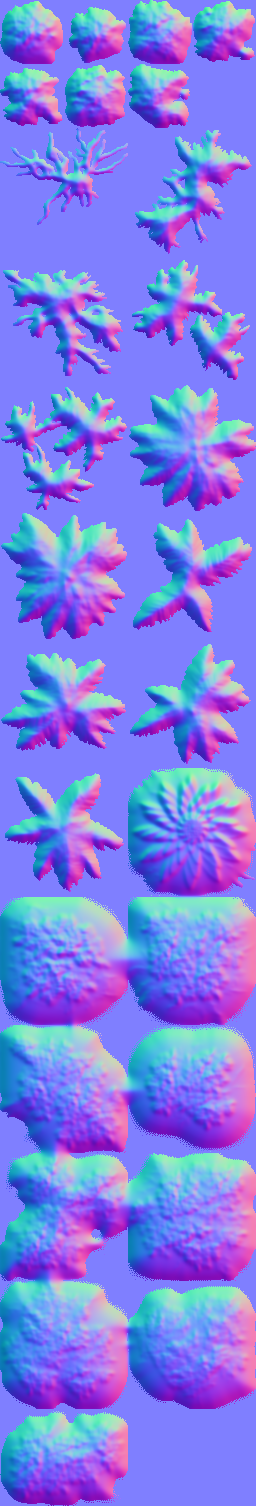
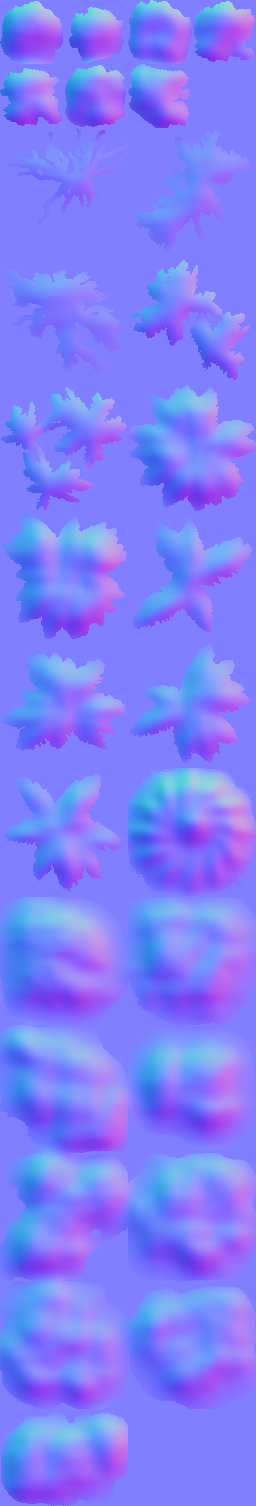
Implemented a rotating directional-light

diff --git a/src/scenes/lighting.scene.ts b/src/scenes/lighting.scene.ts
@@ -1,13 +1,18 @@
 import { glCanvas, mainCanvas, mainCanvasSize, overlayCanvas, rgb, vec2 } from "littlejsengine";
-import { Scene } from "../scene";
-import { Sprite } from "../sprite";
+import { Scene } from "../extensions/scene";
+import { Sprite } from "../extensions/sprite";
 import * as foliageSpriteData from "../foliage.json";
 import { createTileInfo } from "../create-tile-info";
+import { DirectionalLight } from "../extensions/directional-light";
+import { Light } from "../extensions/light";
 
 export class LightingScene extends Scene {
   private _lightMapCanvas!: HTMLCanvasElement;
   private _lightMapContext!: CanvasRenderingContext2D;
-  private _ambientLight = { color: rgb(201/255, 226/255, 255/255), intensity: 0.5 };
+  private _normalMapCanvas!: OffscreenCanvas;
+  private _normalMapContext!: OffscreenCanvasRenderingContext2D;
+  private _ambientLight = { color: rgb(201 / 255, 226 / 255, 255 / 255), intensity: 0.0 };
+  private _lights: Light[] = [];
 
   constructor() {
     super("lighting", [
@@ -30,13 +35,25 @@ export class LightingScene extends Scene {
     (glCanvas || mainCanvas).style.zIndex = mainCanvas.style.zIndex = "0";
     this._lightMapCanvas.style.zIndex = "1";
     overlayCanvas.style.zIndex = "2";
-    this._lightMapContext = this._lightMapCanvas.getContext("2d")!;
+    this._lightMapContext = this._lightMapCanvas.getContext("2d", { willReadFrequently: true })!;
+    this._normalMapCanvas = new OffscreenCanvas(1, 1);
+    this._normalMapContext = this._normalMapCanvas.getContext("2d", { willReadFrequently: true})!;
 
     new Sprite(
       vec2(0),
       vec2(7),
-      createTileInfo(foliageSpriteData.frames["tree6.png" as keyof typeof foliageSpriteData.frames], 2)
+      createTileInfo(foliageSpriteData.frames["tree6.png" as keyof typeof foliageSpriteData.frames], 2),
+      createTileInfo(foliageSpriteData.frames["tree6.png" as keyof typeof foliageSpriteData.frames], 3),
+      this._normalMapContext
     );
+
+    this.initializeLights();
+  }
+
+  private initializeLights(): void {
+    const angle = (90 * Math.PI) / 180;
+    const dirLight = new DirectionalLight(angle, rgb(201 / 255, 226 / 255, 255 / 255), 1, 0.5);
+    this._lights.push(dirLight);
   }
 
   /**
@@ -53,13 +70,18 @@ export class LightingScene extends Scene {
    * Called before objects are rendered, draw any background effects that appear behind objects.
    */
   override gameRender(): void {
-    // Clear the light map canvas with black
     this._lightMapCanvas.style.width = mainCanvas.style.width;
     this._lightMapCanvas.style.height = mainCanvas.style.height;
     this._lightMapCanvas.width = mainCanvas.width;
     this._lightMapCanvas.height = mainCanvas.height;
+    this._normalMapCanvas.width = mainCanvas.width;
+    this._normalMapCanvas.height = mainCanvas.height;
 
-    const ambientColor = `rgba(${this._ambientLight.color.r * 255 * this._ambientLight.intensity}, ${this._ambientLight.color.g * 255 * this._ambientLight.intensity}, ${this._ambientLight.color.b * 255 * this._ambientLight.intensity}, 1)`;
+    // Fill the light map canvas with ambient light
+    this._lightMapContext.globalCompositeOperation = "source-over";
+    const ambientColor = `rgba(${this._ambientLight.color.r * 255 * this._ambientLight.intensity}, ${
+      this._ambientLight.color.g * 255 * this._ambientLight.intensity
+    }, ${this._ambientLight.color.b * 255 * this._ambientLight.intensity}, 1)`;
     this._lightMapContext.fillStyle = ambientColor;
     this._lightMapContext.fillRect(0, 0, this._lightMapCanvas.width, this._lightMapCanvas.height);
   }
@@ -68,7 +90,52 @@ export class LightingScene extends Scene {
    * Called after objects are rendered, draw effects or hud that appear above all objects.
    */
   override gameRenderPost(): void {
-    
+    this._lightMapContext.globalCompositeOperation = "lighter";
+    const litImageData: ImageData = this._lightMapContext.getImageData(
+      0,
+      0,
+      this._lightMapCanvas.width,
+      this._lightMapCanvas.height
+    );
+    const normalImageData: ImageData = this._normalMapContext.getImageData(
+      0,
+      0,
+      this._normalMapCanvas.width,
+      this._normalMapCanvas.height
+    );
+
+    for (let y = Math.round(mainCanvas.height / 2 - 200); y < Math.round(mainCanvas.height / 2 + 200); y++) {
+      for (let x = Math.round(mainCanvas.width / 2 - 200); x < Math.round(mainCanvas.width / 2 + 200); x++) {
+        const index = (y * this._lightMapCanvas.width + x) * 4;
+        let pixel = rgb(
+          litImageData.data[index] / 255,
+          litImageData.data[index + 1] / 255,
+          litImageData.data[index + 2] / 255,
+          litImageData.data[index + 3] / 255
+        );
+        const normal = rgb(
+          (normalImageData.data[index] / 255) * 2 - 1,
+          (normalImageData.data[index + 1] / 255) * 2 - 1,
+          (normalImageData.data[index + 2] / 255) * 2 - 1,
+          (normalImageData.data[index + 3] / 255) * 2 - 1
+        );
+
+        const pos = vec2(x, y);
+
+        for (const light of this._lights) {
+          pixel = light.applyLighting(pixel, pos, normal);
+        }
+
+        pixel = pixel.clamp();
+
+        litImageData.data[index] = pixel.r * 255;
+        litImageData.data[index + 1] = pixel.g * 255;
+        litImageData.data[index + 2] = pixel.b * 255;
+        litImageData.data[index + 3] = pixel.a * 255;
+      }
+    }
+
+    this._lightMapContext.putImageData(litImageData, 0, 0);
   }
 
   /**

diff --git a/src/extensions/directional-light.ts b/src/extensions/directional-light.ts
@@ -1,0 +1,47 @@
+import { Color, rgb, Timer, vec2, Vector2, wave } from "littlejsengine";
+import { Light } from "./light";
+
+const animationTimer = new Timer(1);
+
+export class DirectionalLight extends Light {
+  /**
+   *
+   * @param angle
+   * @param color
+   * @param intensity
+   * @param height The height of the light. Used with 2D normal mapping. Ranges from 0 (parallel to the plane) to 1 (perpendicular to the plane).
+   */
+  constructor(angle?: number, color?: Color, intensity?: number, public height = 1) {
+    super(undefined, undefined, angle, color, undefined, intensity);
+  }
+
+  override update(): void {
+    if (animationTimer.elapsed()) animationTimer.set(0);
+    this.angle = wave(0.1, 2 * Math.PI, animationTimer.time);
+  }
+
+  applyLighting(pixel: Color, pos: Vector2, normal?: Color): Color {
+    if (!normal) {
+      // If no normal is provided, assume the normal is straight up
+      normal = rgb(0, 0, 1);
+    }
+    const direction = {
+      y: (1 - this.height) * Math.cos(this.angle),
+      x: (1 - this.height) * Math.sin(this.angle),
+      z: this.height,
+    };
+    // Normalize the light direction vector
+    /* const directionLength = Math.sqrt(
+      direction.x * direction.x + direction.y * direction.y + direction.z * direction.z
+    );
+    direction.x /= directionLength;
+    direction.y /= directionLength;
+    direction.z /= directionLength; */
+
+    // Calculate dot product between light direction and normal
+    const dot = Math.max(0, direction.x * normal.r + direction.y * normal.g + direction.z * normal.b);
+    const newPixel = pixel.add(this.color.scale(this.intensity * dot));
+
+    return newPixel.clamp();
+  }
+}

diff --git a/src/extensions/sprite.ts b/src/extensions/sprite.ts
@@ -1,0 +1,46 @@
+import { ASSERT, drawCanvas2D, drawTile, EngineObject, tileFixBleedScale, TileInfo, Vector2 } from "littlejsengine";
+
+export class Sprite extends EngineObject {
+  constructor(
+    pos: Vector2,
+    size: Vector2,
+    tileInfo: TileInfo,
+    normalMap: TileInfo,
+    normalMapContext: OffscreenCanvasRenderingContext2D
+  );
+  constructor(
+    pos: Vector2,
+    size: Vector2,
+    tileInfo: TileInfo,
+    public normalMap?: TileInfo,
+    public normalMapContext?: OffscreenCanvasRenderingContext2D
+  ) {
+    ASSERT(
+      normalMap === undefined || normalMapContext !== undefined,
+      "Normal map context must be set if normal map is set"
+    );
+    super(pos, size, tileInfo);
+  }
+
+  override render(): void {
+    drawTile(this.pos, this.size, this.tileInfo, this.color, this.angle);
+
+    if (this.normalMap && this.normalMapContext) {
+      drawCanvas2D(
+        this.pos,
+        this.size,
+        this.angle,
+        false,
+        (ctx: OffscreenCanvasRenderingContext2D) => {
+          const x = this.normalMap!.pos.x + tileFixBleedScale;
+          const y = this.normalMap!.pos.y + tileFixBleedScale;
+          const w = this.normalMap!.size.x - 2 * tileFixBleedScale;
+          const h = this.normalMap!.size.y - 2 * tileFixBleedScale;
+          ctx.drawImage(this.normalMap!.getTextureInfo().image, x, y, w, h, -0.5, -0.5, 1, 1);
+        },
+        false,
+        this.normalMapContext as any
+      );
+    }
+  }
+}

diff --git a/src/extensions/light.ts b/src/extensions/light.ts
@@ -1,0 +1,18 @@
+import { Color, EngineObject, Vector2 } from "littlejsengine";
+
+export abstract class Light extends EngineObject {
+  constructor(
+    pos?: Vector2,
+    size?: Vector2,
+    angle?: number,
+    color?: Color,
+    renderOrder?: number,
+    public intensity = 1,
+  ) {
+    super(pos, size, undefined, angle, color, renderOrder);
+  }
+
+  override render(): void {}
+
+  abstract applyLighting(pixel: Color, pos: Vector2, normal?: Color): Color;
+}

diff --git a/src/main.ts b/src/main.ts
@@ -1,9 +1,9 @@
 import { engineInit } from "littlejsengine";
-import { SceneManager } from "./scene-manager";
+import { SceneManager } from "./extensions/scene-manager";
 import { FieldOfViewScene } from "./scenes/field-of-view.scene";
 import { LightingScene } from "./scenes/lighting.scene";
 
-SceneManager.registerScene(new LightingScene())
+SceneManager.registerScene(new LightingScene());
 SceneManager.registerScene(new FieldOfViewScene());
 
 engineInit(

diff --git a/src/scenes/field-of-view.scene.ts b/src/scenes/field-of-view.scene.ts
@@ -1,5 +1,5 @@
 import { drawRect, glCanvas, mainCanvas, mainCanvasSize, overlayCanvas, PI, rgb, vec2 } from "littlejsengine";
-import { Scene } from "../scene";
+import { Scene } from "../extensions/scene";
 import { Player } from "../player";
 import { Foliage } from "../foliage";
 import { FlashLight } from "../flash-light";
